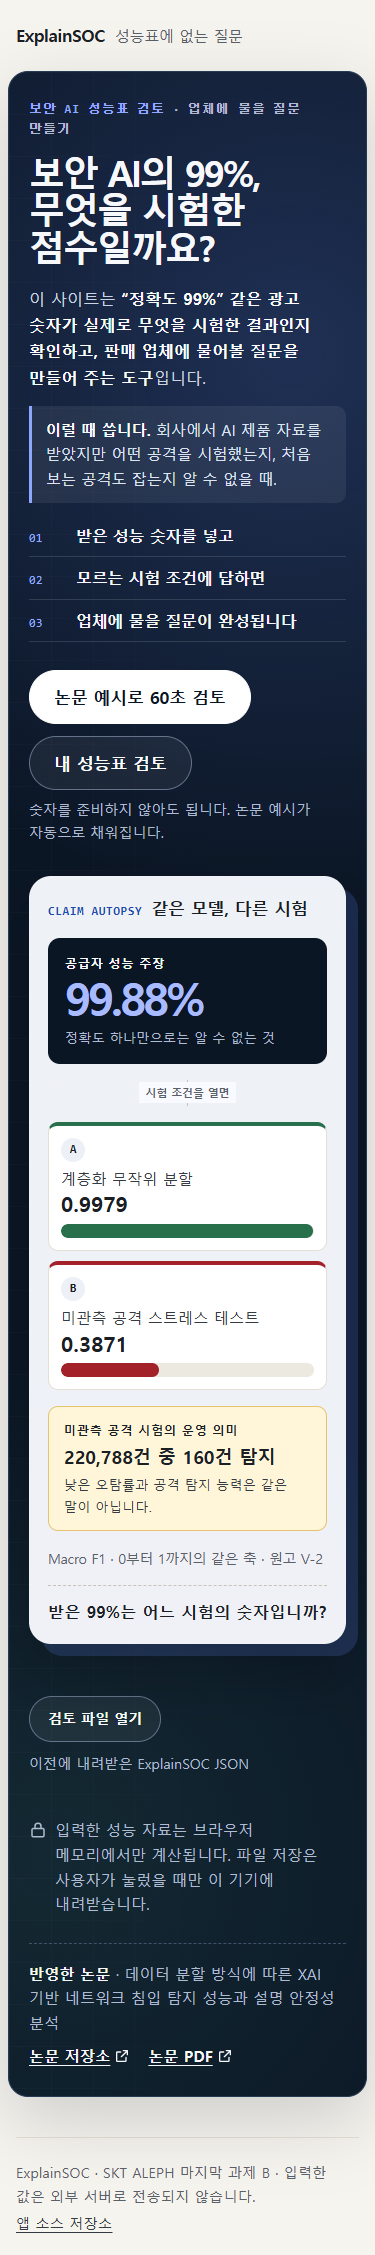
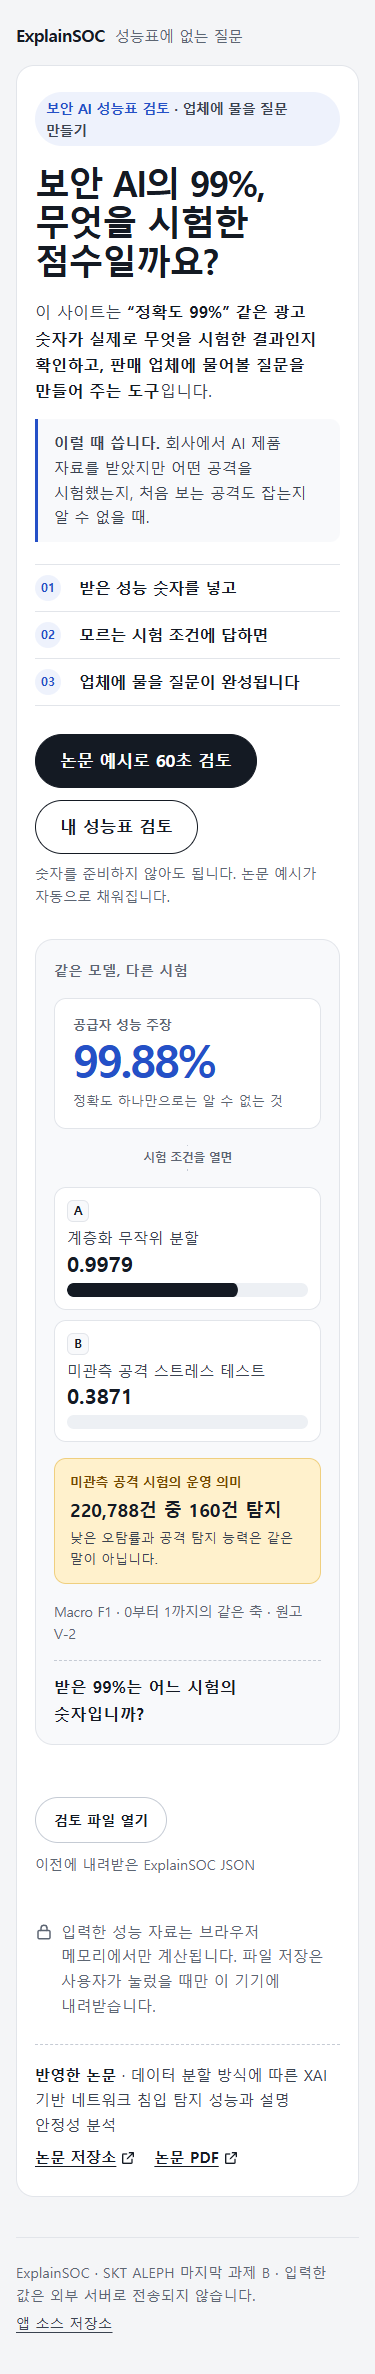
docs: V8 설계 30절·진행 기록·체크리스트와 증거 화면을 남긴다
- DESIGN 30절: V8 밝은 문서형, 두 입력 방식, 근거 패널 통합, 하지 않는 것과 완료 기준.
- STATUS·체크리스트 12절·card-5·UI 인계 문서에 집 PC 진행 상황을 적었다. 배포 전이라 제출 기준은 V7이다.
- evidence/screenshots의 현재 화면 8장을 다시 찍고 evidence/v8-*.png 5장을 추가했다.

diff --git a/planning/DESIGN.md b/planning/DESIGN.md
@@ -1291,3 +1291,53 @@ V6 결과 화면은 1280px에서 5.2화면 길이에 패널 16개를 세 열로 
 - 크기 그림이 논문 예시에서 `탐지 160건 · 0.072%`와 `오탐 86건 · 0.023%`를 실제 비율로 그린다.
 - 375px 가로 넘침 없음, WCAG 2.2 AA, 키보드만으로 질문 복사까지, 인쇄 회귀 검사를 모두 통과한다.
 - 수정 뒤 새로운 처음 보는 사람에게 다시 보여 준다.
+
+## 30. V8 — 밝은 문서형 화면과 두 가지 입력 방식
+
+> 승인일: 2026-09-23 (학원 PC에서 방향과 입력 방식을 정했고, 집 PC에서 중복 패널 통합을 정했다)
+> 근거: V7을 한 바퀴 돌려 본 뒤의 사용자 판단과 지금까지의 관찰(`evidence/card-5.md`)에서 반복된
+> "한꺼번에 너무 많이 보인다". 작업 기록은 `planning/HANDOFF-2026-09-23-UI.md`에 있다.
+
+### 30-1. 확인한 문제
+
+1. 길 안내가 세 겹이었다: 위 단계 1·2·3, 결과 안의 `REVIEW MAP 01~05`, 아래 `1/3` 장 이동.
+2. 첫 화면(어두운 남색)과 안쪽 화면(베이지 폼)이 다른 앱처럼 보였다.
+3. `DECISION BRIEF`, `CLAIM & EVIDENCE`, `EVIDENCE MAP`, `FIRST QUESTION`, `CLAIM AUTOPSY` 같은 영어 라벨이 많았다.
+4. 결과 1장에 같은 근거 목록이 두 번 나왔다(근거 확인표 6칸과 평가 근거 지도 3칸).
+5. 상자 안에 상자가 3~4단으로 겹쳐 있었다.
+6. 입력 단계가 단순한 폼으로만 보였다.
+
+### 30-2. 바꾸는 것
+
+- 첫 화면을 포함한 모든 화면을 **밝고 깔끔한 문서형**으로 바꾼다. 흰 문서 카드, 연한 회색 바탕
+  (`--paper #f4f5f7`), 강조색 하나(`--accent #2450c7`)만 쓴다.
+- 영어 라벨을 한국어로 바꾼다. 단계 이름은 `PoC 검토표` → `검토 결과`, 결과 제목은 `3. 검토 결과`,
+  결과 요약은 `검토 요약`, 결과 목차는 번호 붙은 밑줄 탭(①주장과 근거 ②판독 ③다음 행동)이다.
+  회의에 가져가는 결과물 이름 "PoC 성능 주장 검토표"는 그대로 둔다.
+- 입력은 두 방식을 둔다.
+  - **처음 입력은 한 화면씩**(`GuidedInput`): 질문 6개를 하나씩, `질문 N / 6` 진행 막대, 큰 선택지 카드와
+    한 줄 설명, 늘 보이는 "왜 묻나요?" 상자. 답하지 않은 질문은 `건너뛰고 다음`으로 넘기며 `모름`과 같게 읽힌다.
+  - **고칠 때와 2회차 이후는 한 페이지**(`OnePageForm`): A 받은 숫자, B 평가 조건 두 구역과 붙어 있는
+    `N / 6 답함 · 결과 보기`. 한 화면씩에서 `질문 전체 한 번에 보기`로도 옮길 수 있고, 입력값은 유지된다.
+  - 이유(추론): 대상은 주니어 담당자이고, 관찰된 실패 원인이 "한꺼번에 너무 많이 보임"이었다. 처음에는
+    질문 하나와 설명 하나만 보여야 `모름`을 부담 없이 고른다. 이미 읽은 사람은 한 페이지에서 바뀐 것만 고치는 편이 빠르다.
+    이 추론은 새로운 처음 보는 사람 재시험(BRB-C11)에서 확인해야 한다.
+- 결과 1장의 두 근거 패널을 **근거 확인표 하나로 합친다.** 6칸(성능 지표·혼동행렬·분할 정의·미관측 공격·
+  중복 감사·시험 연결)을 남기고, 평가 근거 지도에만 있던 세 가지를 옮긴다: `평가 조건 확인` 단추,
+  분할과 미관측 공격 답이 어긋날 때의 R12 안내(두 칸을 빨간 테두리로 표시), "모름은 실패가 아니다" 문장.
+- 요약·목차·장·회차 기록·단추를 960px 한 열로 맞춘다.
+
+### 30-3. 하지 않는 것
+
+- 판독 규칙 R01~R14, 수치, 회차 JSON, 보안 경계는 바꾸지 않는다. 합친 근거 확인표도 같은 입력에서 같은 내용을 보인다.
+- 입력 방식 선택은 화면 상태로만 둔다. URL, 저장소, 쿠키에 남기지 않는다.
+- 점수·등급·합격선을 만들지 않는다.
+- 첫 화면의 문구, 논문 링크, 개인정보 안내는 바꾸지 않는다.
+
+### 30-4. 완료 기준
+
+- 첫 화면 → 예시 → 결과 세 장, `내 성능표 검토` → 질문 6개 → 결과 → `입력 수정` → 한 페이지 흐름이
+  데스크톱과 390px에서 가로 넘침 없이 끝난다.
+- 한 화면씩과 한 페이지 입력 모두 axe WCAG 2.2 AA를 통과하고, 금지 표현 검사에 한 화면씩 6개 화면이 포함된다.
+- 결과 1장에 근거 패널이 하나이고, 그 안에서 평가 조건으로 돌아가며, 모순일 때 R12 안내가 보인다.
+- 수정 뒤 새로운 처음 보는 사람에게 **V8**을 다시 보여 준다.

diff --git a/planning/IMPLEMENTATION-CHECKLIST.md b/planning/IMPLEMENTATION-CHECKLIST.md
@@ -223,3 +223,20 @@ C16~C21은 원문에 없으므로 만들거나 검사하지 않는다.
 - [x] 공개 주소 검사 26개와 배포 자산 SHA-256 대조
 - [x] T12 대표 카드 검증 문장(95개) 갱신과 T12 검사·Pages 배포 성공
 - [ ] 새로운 처음 보는 사람에게 V7 재시험
+
+## 12. V8 — 밝은 문서형 화면과 두 가지 입력 방식
+
+- [x] 범위를 화면 디자인으로 한정 — R01~R14·수치·JSON·보안 경계 유지 (사용자 결정)
+- [x] 첫 화면을 포함한 전체를 밝은 문서형으로 교체, 영어 라벨을 한국어로
+- [x] 처음 입력은 한 화면씩(질문 6개, 진행 막대, "왜 묻나요?"), 고칠 때와 2회차는 한 페이지 (사용자 결정)
+- [x] 결과 목차를 번호 탭으로, 요약·목차·장을 960px 한 열로
+- [x] 결과 1장의 두 근거 패널을 근거 확인표 하나로 합침 — 평가 조건 단추·R12 안내·"모름" 문장 이전 (사용자 결정, `169d89e`)
+- [x] 데스크톱 1280px·모바일 390px에서 두 흐름을 끝까지 눌러 가로 넘침·페이지 오류 없음 확인
+- [x] 안전 검사 11개, Vitest 99개, 빌드, Playwright 27개 통과(증거 캡처 건너뜀)
+- [x] 현재 화면 증거 8장 다시 찍고 V8 증거 5장 추가 — V3~V7 이름 붙은 파일은 기록으로 보존
+- [x] `planning/DESIGN.md` 30절, README 화면 이름 갱신
+- [ ] `main` 병합 → CI·Pages 배포 → 공개 주소 브라우저 검사와 배포 자산 SHA-256 대조
+- [ ] V8 실행 묶음(ZIP) 생성과 저장소 밖 빈 폴더 검증
+- [ ] T12 대표 카드 그림·문장·테스트 수 확인
+- [ ] 새로운 처음 보는 사람에게 V8 재시험 — 특히 한 화면씩 입력에서 막히는 곳
+- [ ] BRB-C14 제출문 ② `내가 직접 판단한 일` — 사용자가 작성

diff --git a/planning/STATUS.md b/planning/STATUS.md
@@ -1,5 +1,13 @@
 # 진행 기록
 
+## 2026-09-23 저녁 — V8 밝은 문서형 화면과 두 입력 방식 (`ui-redesign`, 배포 전)
+
+- 학원 PC에서 내부 UI를 밝은 문서형으로 전면 개편하고 입력을 "처음은 한 화면씩, 고칠 때는 한 페이지"로 바꿨다(`4bb1a7a`). 경위와 변경 목록은 `planning/HANDOFF-2026-09-23-UI.md`, 설계는 `DESIGN.md` 30절.
+- 집 PC에서 두 흐름(논문 예시 → 결과 세 장, 내 성능표 → 질문 6개 → 결과 → 입력 수정)을 1280px·390px로 끝까지 눌러 가로 넘침·페이지 오류가 없음을 확인했다.
+- 사용자가 결과 1장의 중복 패널을 하나로 합치기로 정했다. 평가 근거 지도(3칸)를 없애고 그 패널에만 있던 `평가 조건 확인` 단추, R12 모순 안내, "모름은 실패가 아니다" 문장을 근거 확인표(6칸)로 옮겼다(`169d89e`). 판독 규칙·수치·JSON·보안 경계는 그대로다.
+- 안전 검사 11개, Vitest 99개, 빌드, Playwright 27개 통과(증거 캡처 12개 건너뜀). 증거 화면은 현재 화면 8장을 다시 찍고 `evidence/v8-*.png` 5장을 더했다.
+- 아직 `main` 병합·배포 전이다. 공개 앱과 제출 기준은 여전히 V7(`4489803`, `explainsoc-4489803.zip`)이다.
+
 ## 2026-09-23 — 두 번째 관찰(결과 밀집) 반영, V7 한 장씩 읽는 결과
 
 - 앱을 처음 본 두 사람에게서 "버튼을 누른 뒤 보이는 것들이 너무 밀집해 보기 힘들다", "캐릭터나 그래프, 이미지가 있으면 좋겠다"는 관찰을 받았다. 시간·기기·세 행동·직접 인용은 받지 못해 BRB-C11 완료로 처리하지 않고 evidence/card-5.md에 그대로 적었다.

diff --git a/evidence/card-5.md b/evidence/card-5.md
@@ -1,5 +1,18 @@
 # 카드 5 증거 — 포트폴리오와 제출
 
+## V8 밝은 문서형 화면 — 2026-09-23 (배포 전)
+
+> `ui-redesign` 브랜치에서 진행 중이다. 배포와 새 실행 묶음이 나오기 전까지 제출 기준은 아래 V7이다.
+
+V8은 기능을 늘리지 않고 화면만 바꿨다. 첫 화면을 포함해 밝은 문서형으로 바꾸고 영어 라벨을 한국어로
+옮겼다. 처음 입력은 질문 여섯 개를 한 화면에 하나씩 묻고, 결과에서 고치거나 다음 회차를 적을 때는 한
+페이지에서 고친다. 결과 1장에 두 번 나오던 근거 목록은 근거 확인표 하나로 합쳤다. 설계 근거는
+`planning/DESIGN.md` 30절이다.
+
+V8 증거 화면은 `evidence/v8-guided-question-desktop.png`, `evidence/v8-guided-question-mobile.png`,
+`evidence/v8-one-page-form-desktop.png`, `evidence/v8-chapter-evidence-desktop.png`,
+`evidence/v8-chapter-evidence-mobile.png`에 있다. `evidence/screenshots/`의 a·b·c·f 장면도 V8 화면으로 다시 찍었다.
+
 ## V7 결과 밀집 해소 제출본 — 2026-09-23
 
 > 이 섹션이 아래 V1~V6 실행 묶음과 검증 값을 대체한다. 관찰 기록은 BRB-C11 절에 그대로 남긴다.

diff --git a/planning/HANDOFF-2026-09-23-UI.md b/planning/HANDOFF-2026-09-23-UI.md
@@ -3,6 +3,9 @@
 > 이 문서를 먼저 읽는다. 제출 기준은 아직 V7(`4489803`)이고, V8은 `ui-redesign` 브랜치에서 작업 중이다.
 > 이전 인계 문서: [`HANDOFF-2026-09-23-ACADEMY.md`](HANDOFF-2026-09-23-ACADEMY.md)는 V6 기준이다. 현재 제출 기준 사실은 [`STATUS.md`](STATUS.md) 맨 위의 V7이다.
 
+> **집 PC 진행 (2026-09-23 저녁):** 1번 화면 확인 끝. 2번은 사용자가 "하나로 합치기"로 정해 `169d89e`에서 합쳤다.
+> 4번 문서(DESIGN 30절·STATUS·체크리스트 12절·README·card-5)와 5번 증거 캡처도 끝났다. 남은 것은 6번 `main` 병합·배포부터다.
+
 ## 0. 한 줄 상태
 
 **내부 UI를 밝은 문서형으로 전면 개편했다. 입력은 “처음은 한 화면씩, 고칠 때는 한 페이지”로 바꿨다. 코드와 테스트는 통과했고, 문서 갱신·커밋·배포·새 ZIP은 아직 하지 않았다.**
